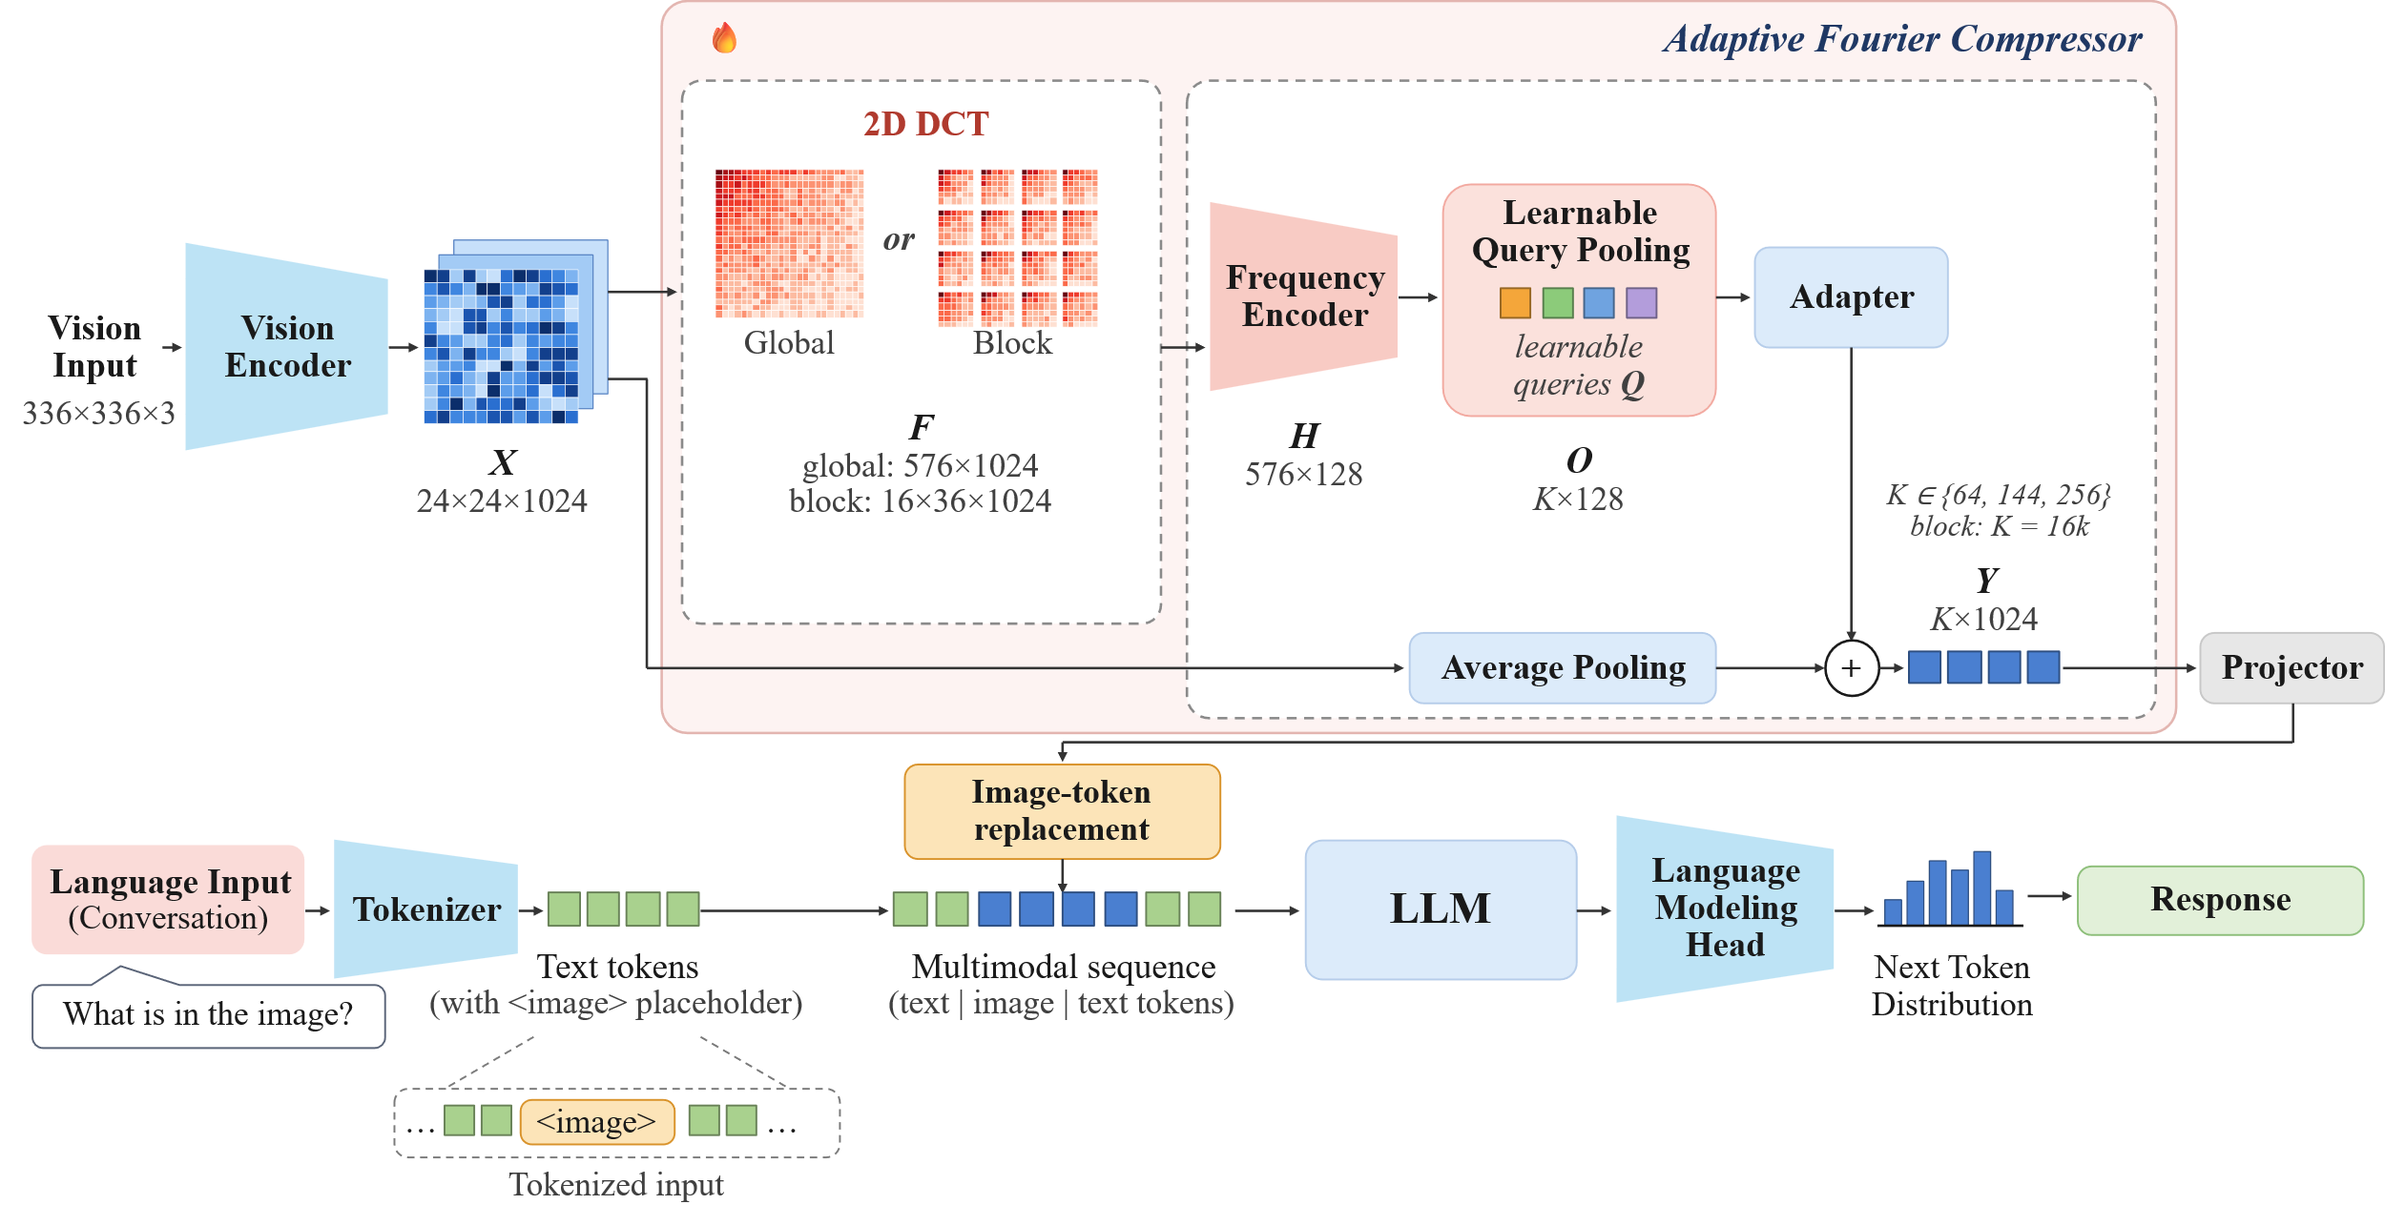
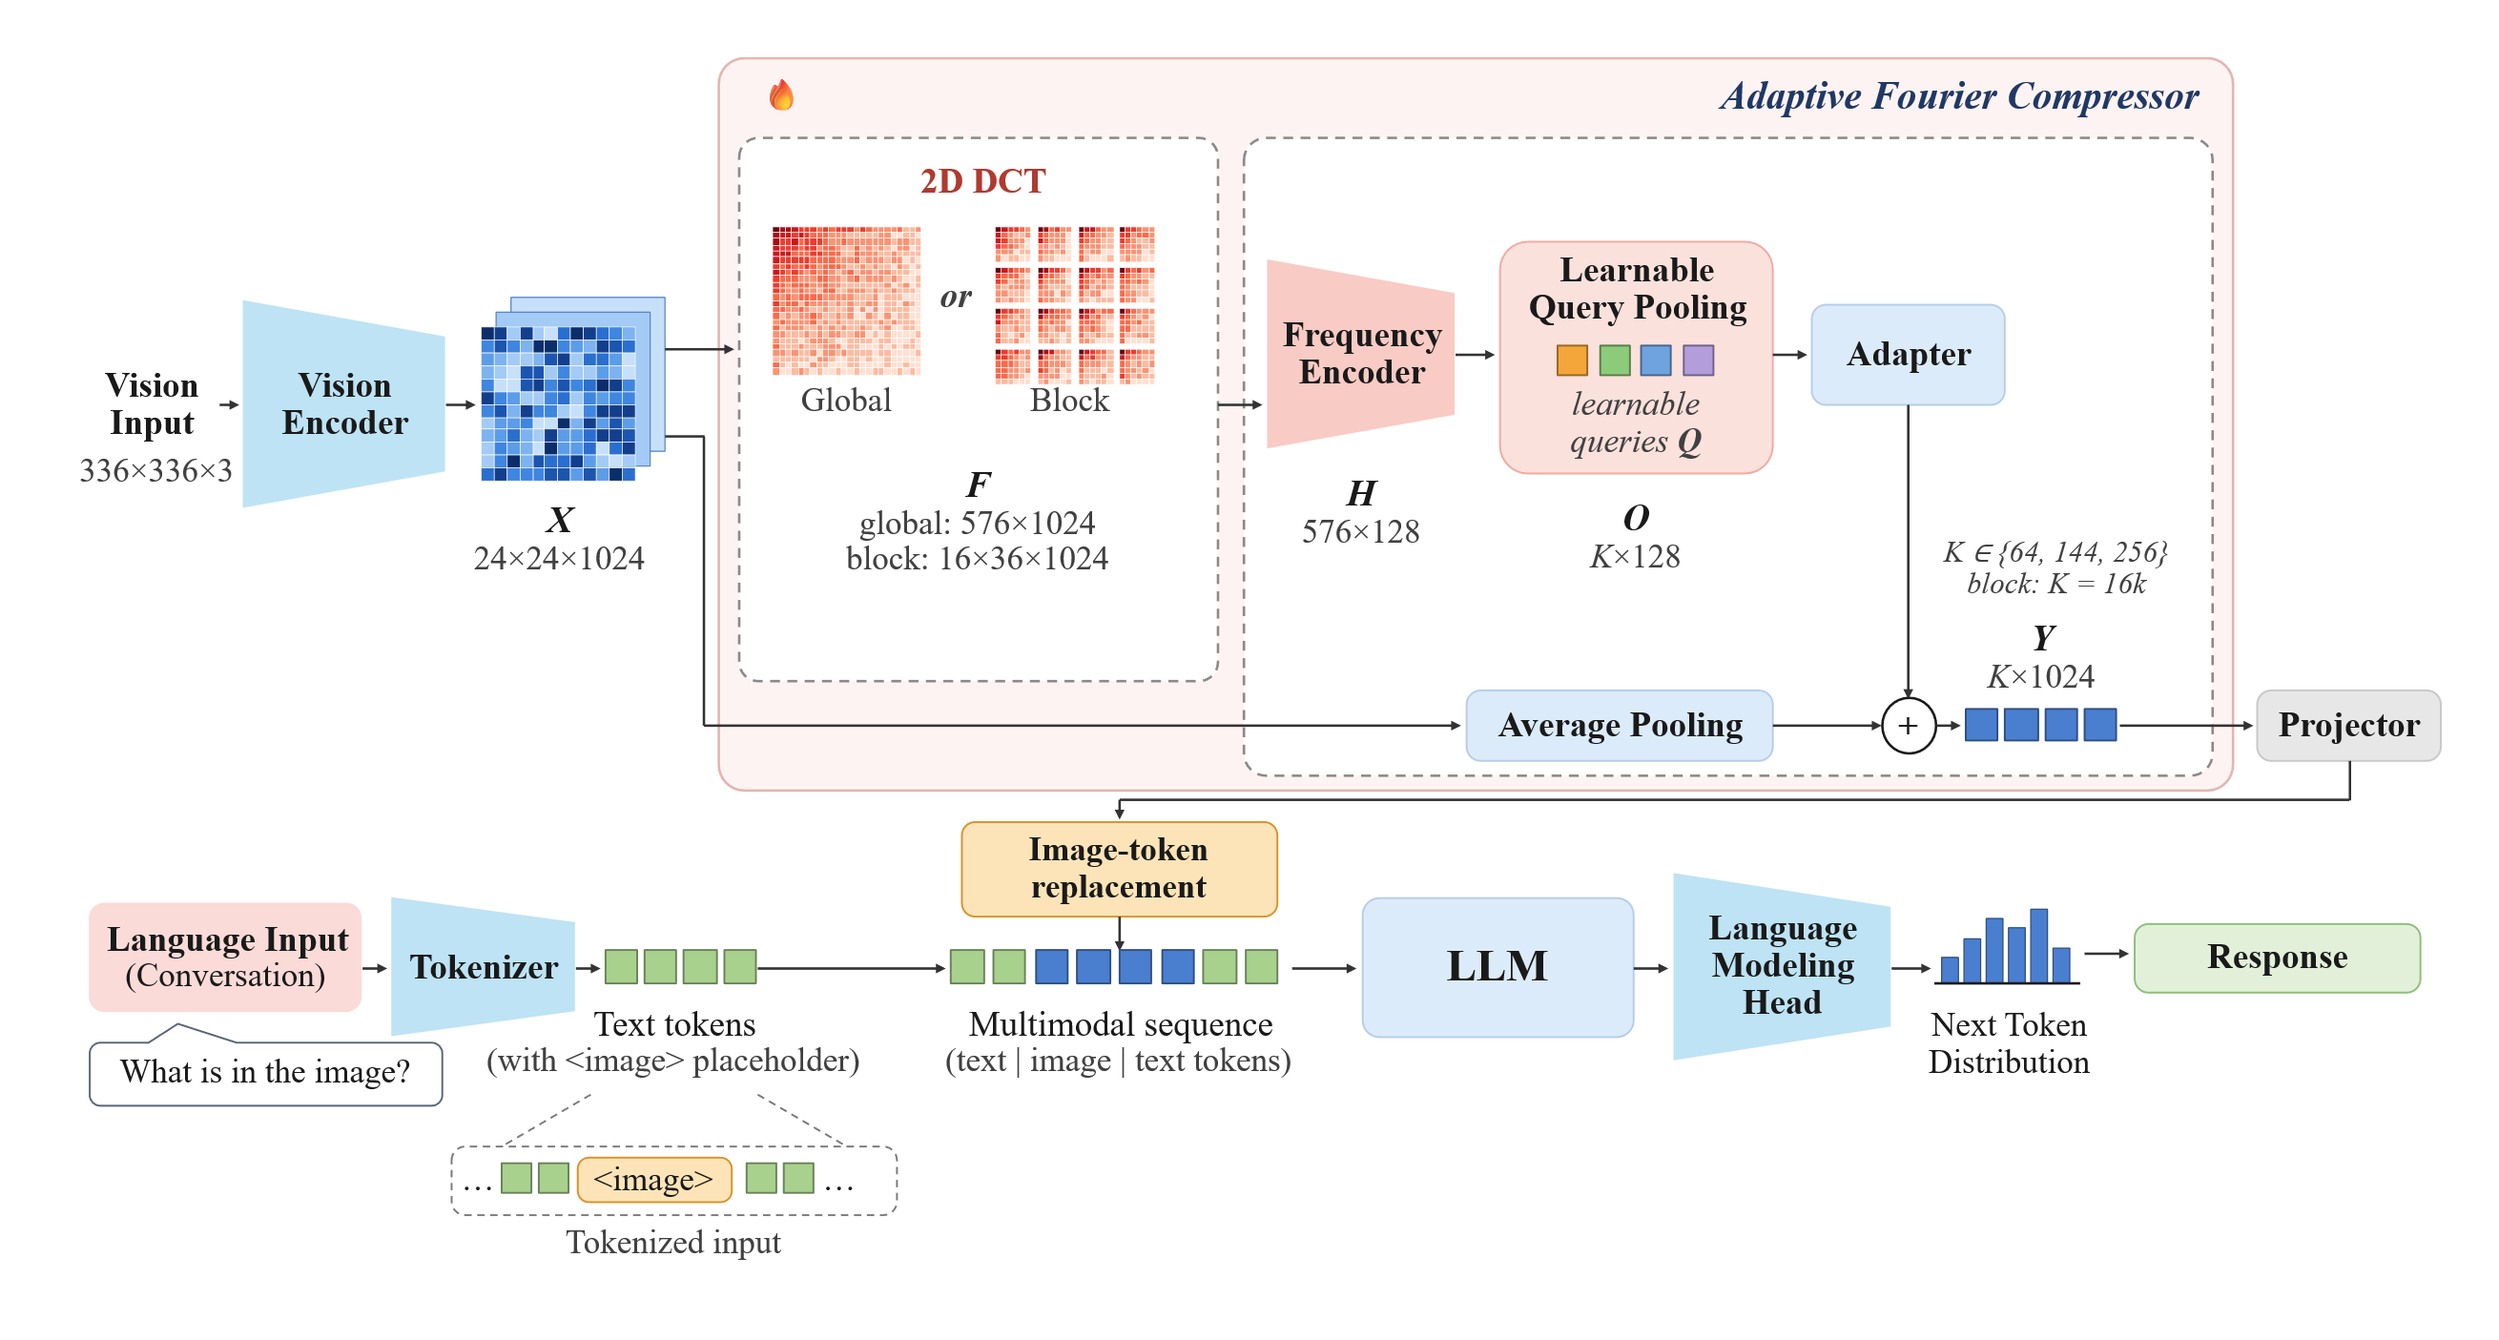
Rewrite README for the revised paper; white-background architecture figure

diff --git a/README.md b/README.md
@@ -1,6 +1,6 @@
 <div align="center">
 <h1>AFC</h1>
-<h3>Frequency-Domain Visual Token Compression for Vision-Language Models</h3>
+<h3>Visual Token Compression for Vision-Language Models via Adaptive Frequency Aggregation</h3>
 
 Jin Ryu<sup>†</sup>, Gyuwan Choi<sup>†</sup>, Yeejin Lee<sup>:email:</sup>
 
@@ -14,10 +14,11 @@ Seoul National University of Science and Technology
 </div>
 
 ## News
-* **`Oct. 2026`:** We release the code of AFC, with training / evaluation scripts and the baselines (average pooling, Fourier-VLM low-frequency truncation, LLaVA-PruMerge) used in the paper.
+* **`Oct. 2026`:** We release the code of AFC (Adaptive Fourier Compressor) with training / evaluation scripts and the compared baselines.
 
 ## Table of Contents
 - [Introduction](#introduction)
+- [Method](#method)
 - [Results](#results)
 - [Getting Started](#getting-started)
 - [Code Structure](#code-structure)
@@ -26,60 +27,93 @@ Seoul National University of Science and Technology
 - [Citation](#citation)
 
 ## Introduction
-Vision-language models represent each image with hundreds of visual tokens, which increases the prefill computation and KV-cache memory of the language model. We propose **AFC (Adaptive Fourier Compressor)**, which applies the discrete cosine transform (DCT) to visual features and aggregates **all** frequency components into a compact token set via learnable query pooling, instead of keeping a fixed low-frequency band. AFC has a global (24×24) and a block-wise (16 blocks of 6×6) DCT variant, adds the frequency correction to an average-pooled spatial base, and is trained by knowledge distillation while the vision encoder, projector, and language model stay **frozen** (≈1.2M trainable parameters). Compressing the 576 visual tokens of LLaVA-1.5-7B to 64–256, AFC achieves the best average score among the compared methods at every token budget on six benchmarks; with 64 tokens, AFC-global retains 94.1% of the original performance and outperforms Fourier-VLM-style low-frequency truncation by 5.0%p.
+Vision-language models (VLMs) incur substantial computational and memory costs due to large numbers of visual tokens. We propose the **Adaptive Fourier Compressor (AFC)**, which applies the discrete cosine transform (DCT) to visual features and adaptively compresses frequency components through learnable query pooling. AFC is trained via knowledge distillation while keeping the pretrained VLM frozen. On six benchmarks using LLaVA-1.5-7B, AFC achieves the highest average performance among evaluated compression methods at 64, 144, and 256 tokens. With 64 tokens, AFC retains **94.1%** of the original performance, outperforming a directly evaluated low-frequency truncation baseline by **5.0 percentage points**.
 
-<div align="center"><b>Overall architecture of AFC between the frozen vision encoder and the frozen projector of LLaVA-1.5.</b>
-<img src="assets/architecture.png" />
+**Keywords:** VLM, compressor, frequency, DCT, learnable query pooling
+
+<div align="center">
+<img src="assets/architecture.png" width="100%" />
+<br>
+<b>Overall architecture of a vision-language model with the Adaptive Fourier Compressor (AFC).</b>
 </div>
+
+## Method
+
+AFC is inserted between the vision encoder and the multimodal projector. It keeps the output channel dimension ($C = 1024$), so the frozen projector and language model are used without any structural change.
+
+**DCT.** The patch tokens $V \in \mathbb{R}^{576 \times 1024}$ are reshaped into a feature map $X \in \mathbb{R}^{24 \times 24 \times 1024}$, and a 2D DCT with the orthonormal matrix $D \in \mathbb{R}^{N \times N}$ is applied to every channel $X^{(c)}$:
+
+$$F^{(c)} = D X^{(c)} D^{\top}, \qquad D_{u,i} = \alpha_u \cos\frac{\pi(2i+1)u}{2N}, \qquad \alpha_0 = \sqrt{1/N},\ \alpha_u = \sqrt{2/N}\ (u>0).$$
+
+The coefficients of all channels at the same frequency $(u,v)$ form a frequency token $f_{u,v} \in \mathbb{R}^{1024}$.
+
+| Variant | DCT | Frequency tokens |
+| :--- | :--- | :---: |
+| **AFC-global** | whole feature map, $N = 24$ | $576 \times 1024$ |
+| **AFC-block** | 16 non-overlapping $6 \times 6$ blocks, $N = 6$ | $16 \times 36 \times 1024$ |
+
+**Frequency encoder.** Each token passes LayerNorm and a linear projection, and a frequency position embedding is added (AFC-block also adds a block position embedding $b_j \in \mathbb{R}^{128}$):
+
+$$z_{u,v} = \mathrm{LN}(f_{u,v})\,W_{in} + e_{u,v}\ (+\,b_j).$$
+
+A 2-layer Transformer encoder gives $H = [h_1, \dots, h_{576}] \in \mathbb{R}^{576 \times 128}$ (AFC-block: applied to the 36 tokens of each block with shared parameters).
+
+**Learnable query pooling.** Unlike Fourier-VLM, which keeps a fixed low-frequency band, AFC aggregates frequency components with cross-attention from learnable queries $Q = [q_1, \dots, q_K] \in \mathbb{R}^{K \times 128}$ (4 heads, $d_h = 32$, LN on queries and keys/values):
+
+$$o_i^{(r)} = \sum_{m=1}^{M} \mathrm{softmax}_m\!\left(\frac{(q_i W_Q^{(r)})(h_m W_K^{(r)})^{\top}}{\sqrt{d_h}}\right) h_m W_V^{(r)}, \qquad o_i = \left[o_i^{(1)}, \dots, o_i^{(4)}\right] W_O.$$
+
+AFC-global uses $K$ queries over all tokens; AFC-block shares $k$ queries over the 16 blocks, giving $K = 16k$ tokens.
+
+**Residual output.** A 2-layer MLP adapter (LN, GELU, $128 \rightarrow 512 \rightarrow 1024$) maps the pooled tokens back to the CLIP width and adds them to adaptive average pooling of $X$:
+
+$$Y = \mathrm{AvgPool}(X) + \mathrm{Adapter}(O).$$
+
+The last adapter layer is zero-initialized, so training starts exactly from average pooling.
+
+**Training.** The vision encoder, projector, and language model are frozen. The teacher is the same model with the original 576 tokens (no gradient), and only the compressor is optimized with cross-entropy and knowledge distillation over the answer-token positions $\mathcal{A}$ ($\lambda = 1$, $T = 2$):
+
+$$\mathcal{L} = \mathcal{L}_{CE} + \lambda \frac{T^2}{|\mathcal{A}|} \sum_{t \in \mathcal{A}} D_{KL}\!\left(p_{tea,t}^{(T)} \,\|\, p_{stu,t}^{(T)}\right).$$
 
 ## Results
 
-> Frozen LLaVA-1.5-7B; all rows measured by us under the same setting. AFC is trained on the LLaVA-1.5 instruction data (544k samples, OCR-VQA and text-only samples excluded). Fourier-VLM denotes its low-frequency truncation applied to the same frozen model (not the paper's numbers, which fine-tune the LLM). PruMerge uses the official implementation with a fixed token budget.
+### Benchmark performance
 
-| Model | #Tokens | GQA | SciQA | VQA<sup>T</sup> | POPE | MMB | MMMU | Avg. |
+> Frozen LLaVA-1.5-7B; every row is measured by us under the same setting. Fourier-VLM is its low-frequency truncation applied to the same frozen model; PruMerge uses the official implementation without training and with a fixed token budget.
+
+| Model | #I | GQA | SciQA | VQA<sup>T</sup> | POPE | MMB | MMMU | Avg. |
 | :--- | :---: | :---: | :---: | :---: | :---: | :---: | :---: | :---: |
 | LLaVA-1.5-7B | 576 | 61.9 | 69.6 | 58.2 | 85.9 | 64.3 | 36.7 | 62.8 |
-| *Token reduction 55.6%* | | | | | | | | |
+| ***Token reduction ratio: 55.6%*** | | | | | | | | |
 | Avg pooling | 256 | 58.3 | 68.0 | 51.8 | 81.7 | 59.4 | **35.7** | 59.1 |
 | Fourier-VLM | 256 | 59.6 | **68.8** | 53.4 | 84.1 | 61.6 | 35.3 | 60.5 |
 | PruMerge | 256 | 58.6 | 68.3 | **55.2** | **85.1** | 62.8 | 34.7 | 60.8 |
 | AFC-block (ours) | 256 | **60.2** | **68.8** | 53.8 | 83.6 | **63.6** | 35.4 | **60.9** |
 | AFC-global (ours) | 256 | 60.1 | 68.5 | 54.0 | 83.2 | 63.0 | 35.1 | 60.7 |
-| *Token reduction 75.0%* | | | | | | | | |
+| ***Token reduction ratio: 75.0%*** | | | | | | | | |
 | Avg pooling | 144 | 57.2 | 67.6 | 49.7 | 81.2 | 56.2 | 35.7 | 57.9 |
 | Fourier-VLM | 144 | 56.9 | 69.3 | 50.1 | 81.7 | 58.2 | 36.3 | 58.8 |
 | PruMerge | 144 | 57.0 | 69.0 | **55.2** | 81.7 | 61.5 | **36.9** | 60.2 |
 | AFC-block (ours) | 144 | 59.8 | 68.4 | 52.7 | 81.9 | **62.6** | 36.3 | 60.3 |
 | AFC-global (ours) | 144 | **60.1** | **69.4** | 52.7 | **83.2** | 61.9 | 36.4 | **60.6** |
-| *Token reduction 88.9%* | | | | | | | | |
+| ***Token reduction ratio: 88.9%*** | | | | | | | | |
 | Avg pooling | 64 | 53.1 | 65.9 | 45.3 | 74.4 | 46.3 | 33.2 | 53.0 |
 | Fourier-VLM | 64 | 54.0 | 66.7 | 46.0 | 74.0 | 50.3 | 33.9 | 54.1 |
 | PruMerge | 64 | 54.4 | **68.8** | **54.5** | 73.1 | 59.4 | **35.9** | 57.7 |
 | AFC-block (ours) | 64 | 57.9 | 67.6 | 50.2 | 81.7 | **60.7** | 35.4 | 58.9 |
 | AFC-global (ours) | 64 | **58.3** | 68.5 | 49.4 | **82.5** | 60.2 | 35.6 | **59.1** |
 
-> Ablations (64 tokens, 544k training samples). *w/o padding*: the square padding added by LLaVA-1.5 preprocessing is removed from the CLIP feature map before the DCT.
+### Computational cost
 
-| Setting | GQA | SciQA | VQA<sup>T</sup> | POPE | MMB | MMMU | Avg. |
-| :--- | :---: | :---: | :---: | :---: | :---: | :---: | :---: |
-| AFC-global | 58.3 | 68.5 | 49.4 | 82.5 | 60.2 | 35.6 | 59.1 |
-| └ w/o KD | 57.8 | 68.1 | 49.0 | 81.8 | 59.9 | 34.6 | 58.5 (−0.6) |
-| └ w/o padding | 58.5 | 68.2 | 50.1 | 82.4 | 60.4 | 34.8 | 59.1 (0.0) |
-| AFC-block | 57.9 | 67.6 | 50.2 | 81.7 | 60.7 | 35.4 | 58.9 |
-| └ w/o padding | 58.8 | 67.7 | 51.2 | 83.1 | 62.0 | 35.3 | 59.7 (+0.8) |
+> Theoretical values for Vicuna-7B (FP16, 64 text tokens assumed). KV cache per token $= 2 L d_{LLM} b = 0.5$ MiB; prefill $\approx 2Pn + 2 L d_{LLM} n^2$ ($P = 6.48$B without embeddings, $n$: input tokens). AFC FLOPs are measured on the trained configuration (`scripts/afc/complexity.py`).
 
-<div align="center"><b>Padding ablation: the DCT is applied to the full feature map (w/ padding) or only to the image area (w/o padding).</b>
-<img src="assets/padding_ablation.png" width="420" />
-</div>
-
-> Theoretical cost (Vicuna-7B, FP16, 64 text tokens assumed; `scripts/afc/complexity.py`). AFC FLOPs are counted with the PyTorch FLOP counter on the trained configuration.
-
-| #Tokens | Visual KV cache | Prefill | Prefill reduction | AFC-global | AFC-block |
+| #I | KV cache (MiB) | Prefill (TFLOPs) | Prefill red. | AFC-global (GFLOPs) | AFC-block (GFLOPs) |
 | :---: | :---: | :---: | :---: | :---: | :---: |
-| 576 | 288 MiB | 8.40 TFLOPs | – | – | – |
-| 256 | 128 MiB | 4.17 TFLOPs | 50.3% | 0.64 GFLOPs | 0.52 GFLOPs |
-| 144 | 72 MiB | 2.71 TFLOPs | 67.8% | 0.47 GFLOPs | 0.38 GFLOPs |
-| 64 | 32 MiB | 1.66 TFLOPs | 80.2% | 0.34 GFLOPs | 0.28 GFLOPs |
+| 576 | 288 | 8.40 | – | – | – |
+| 256 | 128 | 4.17 | 50.3% | 0.64 | 0.52 |
+| 144 | 72 | 2.71 | 67.8% | 0.47 | 0.38 |
+| 64 | 32 | 1.66 | 80.2% | 0.34 | 0.28 |
+
+The compressor costs less than 0.02% of the prefill computation it saves (4.2–6.7 TFLOPs); actual latency depends on the implementation.
 
 ## Getting Started
 
@@ -94,30 +128,31 @@ Data, model weights and third-party code are kept outside the repository in `AFC
 
 ### 2. Data and model
 ```bash
-python scripts/afc/download_data.py          # benchmarks, tuning splits, llava-v1.5-7b weights
-bash scripts/afc/download_llava_train.sh     # LLaVA-1.5 instruction data (~57 GB); writes llava_v1_5_available.json
-python scripts/afc/check_data.py             # sanity check of the downloaded files
+python scripts/afc/download_data.py          # benchmarks and llava-v1.5-7b weights
+bash scripts/afc/download_llava_train.sh     # LLaVA-1.5 instruction data (~57 GB); OCR-VQA and text-only samples are dropped (~544k)
+python scripts/afc/check_data.py             # sanity check
 ```
 
 ### 3. Training
-Each run trains only the compressor (vision encoder, projector, LLM frozen) and writes a normal LLaVA model directory to `checkpoints/llava-v1.5-7b-afc-<run name>/` (`config.json` with a `visual_compressor` entry and `visual_compressor.bin`). The paper runs use the whole training data on two GPUs (DDP, effective batch 24):
+Only the compressor is trained; each run writes a normal LLaVA model directory `checkpoints/llava-v1.5-7b-afc-<run name>/` (`config.json` with a `visual_compressor` entry + `visual_compressor.bin`). The paper runs use the whole data for 1 epoch on 2× RTX 3090 (DDP, effective batch 24, AdamW, lr 2e-4, 3% warmup, cosine):
 ```bash
-# AFC-global, 64 tokens (configs: global_full.yaml / _144 / _256)
+# AFC-global, 64 tokens   (144 / 256 tokens: configs/afc/global_full_144.yaml / global_full_256.yaml)
 RUN_NAME=global_all EXTRA_CONFIG=configs/afc/global_full.yaml MAX_TRAIN_SAMPLES=all \
 TRAIN_GPU=0 TRAIN_GPUS=0,1 EVAL_GPUS="0 1" TARGET_EFFECTIVE_BATCH=24 START_STAGE=train \
     bash scripts/afc/pipeline_main.sh
 
-# AFC-block, 64 tokens (configs: full.yaml / block_full_144.yaml / block_full_256.yaml)
+# AFC-block, 64 tokens    (144 / 256 tokens: configs/afc/block_full_144.yaml / block_full_256.yaml)
 RUN_NAME=block_all EXTRA_CONFIG=configs/afc/full.yaml MAX_TRAIN_SAMPLES=all \
 TRAIN_GPU=0 TRAIN_GPUS=0,1 EVAL_GPUS="0 1" TARGET_EFFECTIVE_BATCH=24 START_STAGE=train \
     bash scripts/afc/pipeline_main.sh
 ```
-`pipeline_main.sh` runs train → quick eval → full eval and logs to W&B (`USE_WANDB=0` to disable). Ablations use the same command with `configs/afc/global_nokd.yaml` (w/o KD), `configs/afc/global_valid.yaml` and `configs/afc/block_valid.yaml` (w/o padding). A single run without the pipeline: `GPU=0 bash scripts/afc/train.sh <run name> <config yaml>`.
+`pipeline_main.sh` runs train → quick eval → full eval and logs to W&B (`USE_WANDB=0` to disable). A single run without the pipeline: `GPU=0 bash scripts/afc/train.sh <run name> <config yaml>`.
 
 ### 4. Evaluation
 ```bash
 GPU=0 bash scripts/afc/run_eval.sh checkpoints/llava-v1.5-7b-afc-global_all   # GQA, SciQA, TextVQA, POPE, MMB, MMMU
 python scripts/afc/plot_budget.py                                              # results table
+python scripts/afc/complexity.py                                               # KV cache / prefill / AFC FLOPs
 ```
 
 ### 5. Baselines (training free, same frozen model)
@@ -136,12 +171,12 @@ CUDA_VISIBLE_DEVICES= python -m pytest -q tests/afc
 
 | Path | Role |
 | :--- | :--- |
-| `llava/model/visual_compressor/` | AFC: `dct.py`, `blocks.py`, `positional.py`, `frequency_encoder.py`, `query_pool.py`, `adapter.py`, `compressor.py`, `valid_region.py` (padding removal), `fixed_compressors.py` (baselines), `config.py`, `builder.py` |
+| `llava/model/visual_compressor/` | AFC: `dct.py`, `blocks.py`, `positional.py`, `frequency_encoder.py`, `query_pool.py`, `adapter.py`, `compressor.py`, `fixed_compressors.py` (baselines), `config.py`, `builder.py` |
 | `llava/model/llava_arch.py` | `encode_images`: compressor between the vision tower and the projector |
 | `llava/train/train_compressor.py` | training entry point (CE + answer-token KD) |
 | `llava/eval/afc/` | evaluation helpers (lmms-eval / LLaVA official scorers) |
 | `configs/afc/` | training configurations |
-| `scripts/afc/` | setup, data, training, evaluation, figures |
+| `scripts/afc/` | setup, data, training, evaluation, analysis |
 | `tests/afc/` | unit tests |
 
 The original LLaVA README is kept in [`docs/LLaVA_README.md`](docs/LLaVA_README.md).
@@ -158,7 +193,7 @@ If you find AFC useful in your research, please consider giving us a star 🌟 a
 
 ```bibtex
 @misc{afc2026,
-  title  = {Frequency-Domain Visual Token Compression for Vision-Language Models},
+  title  = {Visual Token Compression for Vision-Language Models via Adaptive Frequency Aggregation},
   author = {Jin Ryu and Gyuwan Choi and Yeejin Lee},
   year   = {2026},
   howpublished = {\url{https://github.com/gyuz1/AFC}}
